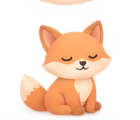
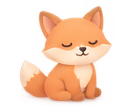
polish Home orb breathing and baby header

diff --git a/src/styles/default-theme.css b/src/styles/default-theme.css
@@ -195,7 +195,9 @@
     display: flex;
     align-items: center;
     gap: 6px;
-    max-width: 76%;
+    flex: 1;
+    min-width: 0;
+    max-width: none;
     padding-inline-start: 2px;
   }
   & .home-baby-avatar {
@@ -209,7 +211,10 @@
   }
   & .home-baby-avatar svg { width: 23px; height: 23px; }
   & .home-baby-select select {
-    padding-inline-start: 2px;
+    flex: 1;
+    min-width: 0;
+    appearance: none;
+    padding-inline: 2px 24px;
     color: var(--text-primary);
     background-color: transparent;
     border-color: transparent;
@@ -218,7 +223,7 @@
   }
   & .home-baby-chevron {
     position: absolute;
-    inset-inline-end: 11px;
+    inset-inline-end: 4px;
     width: 16px;
     height: 16px;
     color: var(--lavender);
@@ -227,6 +232,9 @@
   & .home-baby-select select option { background: var(--surface); color: var(--text-primary); }
 
   & .home-current {
+    --orb-cycle: 5s;
+    --orb-warm: #f4b391;
+    --orb-scale: 1.012;
     position: relative;
     display: flex;
     flex-direction: column;
@@ -249,21 +257,27 @@
     width: 100%;
     height: 100%;
     pointer-events: none;
-    --orb-lavender: #b39bd7;
-    --orb-pink: #e5abba;
-    --orb-edge: var(--ring-start);
-    --orb-peak: var(--ring-start);
-    --orb-cycle: 5s;
-    filter: drop-shadow(0 0 2px color-mix(in srgb, var(--orb-pink) 25%, transparent));
+    overflow: visible;
+    filter: drop-shadow(0 0 2px #ae95c840);
   }
-  & .home-orb-ring[data-sleeping="true"] {
-    --orb-edge: var(--orb-lavender);
-    --orb-peak: #cbb0d2;
+  & .home-current[data-sleeping="true"] {
     --orb-cycle: 7.5s;
-    filter: drop-shadow(0 0 2px color-mix(in srgb, var(--orb-pink) 12%, transparent));
+    --orb-warm: #c2abd6;
+    --orb-scale: 1.005;
+  }
+  & .home-ring-pulse {
+    opacity: .45;
+    filter: drop-shadow(0 0 2px var(--orb-warm));
+  }
+  & .home-current[data-sleeping="true"] .home-ring-pulse {
+    filter: drop-shadow(0 0 1px #d9b7ce80);
   }
   @media (prefers-reduced-motion: no-preference) {
-    & .home-orb-ring stop:first-child { animation: home-orb-breathe var(--orb-cycle) ease-in-out infinite; }
+    & .home-orb-ring { animation: home-ring-expand var(--orb-cycle) ease-in-out infinite; }
+    & .home-ring-pulse { animation: home-ring-fade var(--orb-cycle) ease-in-out infinite; }
+    & .home-current[data-sleeping="false"] .home-current-animal {
+      animation: home-fox-breathe var(--orb-cycle) ease-in-out infinite;
+    }
   }
   & .home-current-animal {
     width: 43%;
@@ -271,7 +285,7 @@
     pointer-events: none;
     user-select: none;
   }
-  & .home-current:has(.home-awake-duration) .home-current-animal { width: 27%; }
+  & .home-current:has(.home-awake-duration) .home-current-animal { width: 25%; margin-top: 6px; }
   & .home-awake-label { font-size: .8125rem; color: var(--text-secondary); }
   & .home-awake-duration { font-size: 1.25rem; line-height: 1.1; font-variant-numeric: tabular-nums; }
   & .home-current h2 { margin-top: 4px; font-size: 1rem; font-weight: 550; }
@@ -397,8 +411,17 @@
   stroke-linejoin: round;
 }
 
-@keyframes home-orb-breathe {
-  0%, 100% { stop-color: var(--orb-lavender); }
-  25%, 75% { stop-color: var(--orb-pink); }
-  50% { stop-color: var(--orb-peak); }
+@keyframes home-ring-expand {
+  0%, 100% { transform: scale(1); }
+  50% { transform: scale(var(--orb-scale)); }
+}
+
+@keyframes home-ring-fade {
+  0%, 100% { opacity: 0; }
+  50% { opacity: 1; }
+}
+
+@keyframes home-fox-breathe {
+  0%, 100% { transform: translateY(0) scale(1); }
+  50% { transform: translateY(-1px) scale(1.012); }
 }

diff --git a/src/pages/Home.tsx b/src/pages/Home.tsx
@@ -207,13 +207,22 @@ function HomeActivity() {
   }
 
   return <>
-    <section className="home-current" aria-labelledby="home-current-title">
+    <section className="home-current" data-sleeping={Boolean(activeSleep)} aria-labelledby="home-current-title">
       {isDefault && <>
-        <svg className="home-orb-ring" data-sleeping={Boolean(activeSleep)} aria-hidden="true" viewBox="0 0 200 200">
-          <defs><linearGradient id="orb-light" x2="1" y2="1" gradientUnits="objectBoundingBox">
-            <stop stopColor="var(--orb-lavender)" /><stop offset=".55" stopColor="var(--orb-pink)" /><stop offset="1" stopColor="var(--orb-edge)" stopOpacity=".45" />
-          </linearGradient></defs>
-          <path d="M 28 163 A 96 96 0 1 1 172 163" fill="none" stroke="url(#orb-light)" strokeWidth="4" strokeLinecap="round" />
+        <svg className="home-orb-ring" aria-hidden="true" viewBox="0 0 200 200">
+          <defs>
+            <path id="home-ring-arc" d="M 28 163 A 96 96 0 1 1 172 163" />
+            <linearGradient id="home-ring-base" x2="1" y2="1">
+              <stop stopColor="#ad94d3" /><stop offset=".55" stopColor="#c9a8ce" /><stop offset="1" stopColor="#e6b6c6" />
+            </linearGradient>
+            <linearGradient id="home-ring-warm" x2="1" y2="1">
+              <stop stopColor="var(--orb-warm)" /><stop offset=".6" stopColor="#e9acbd" /><stop offset="1" stopColor="#c4a7d9" />
+            </linearGradient>
+          </defs>
+          <g fill="none" strokeWidth="4" strokeLinecap="round">
+            <use href="#home-ring-arc" stroke="url(#home-ring-base)" />
+            <use className="home-ring-pulse" href="#home-ring-arc" stroke="url(#home-ring-warm)" />
+          </g>
         </svg>
         <img className="home-current-animal" src={activeSleep ? sleepingFox : awakeFox} alt="" draggable={false} />
       </>}
